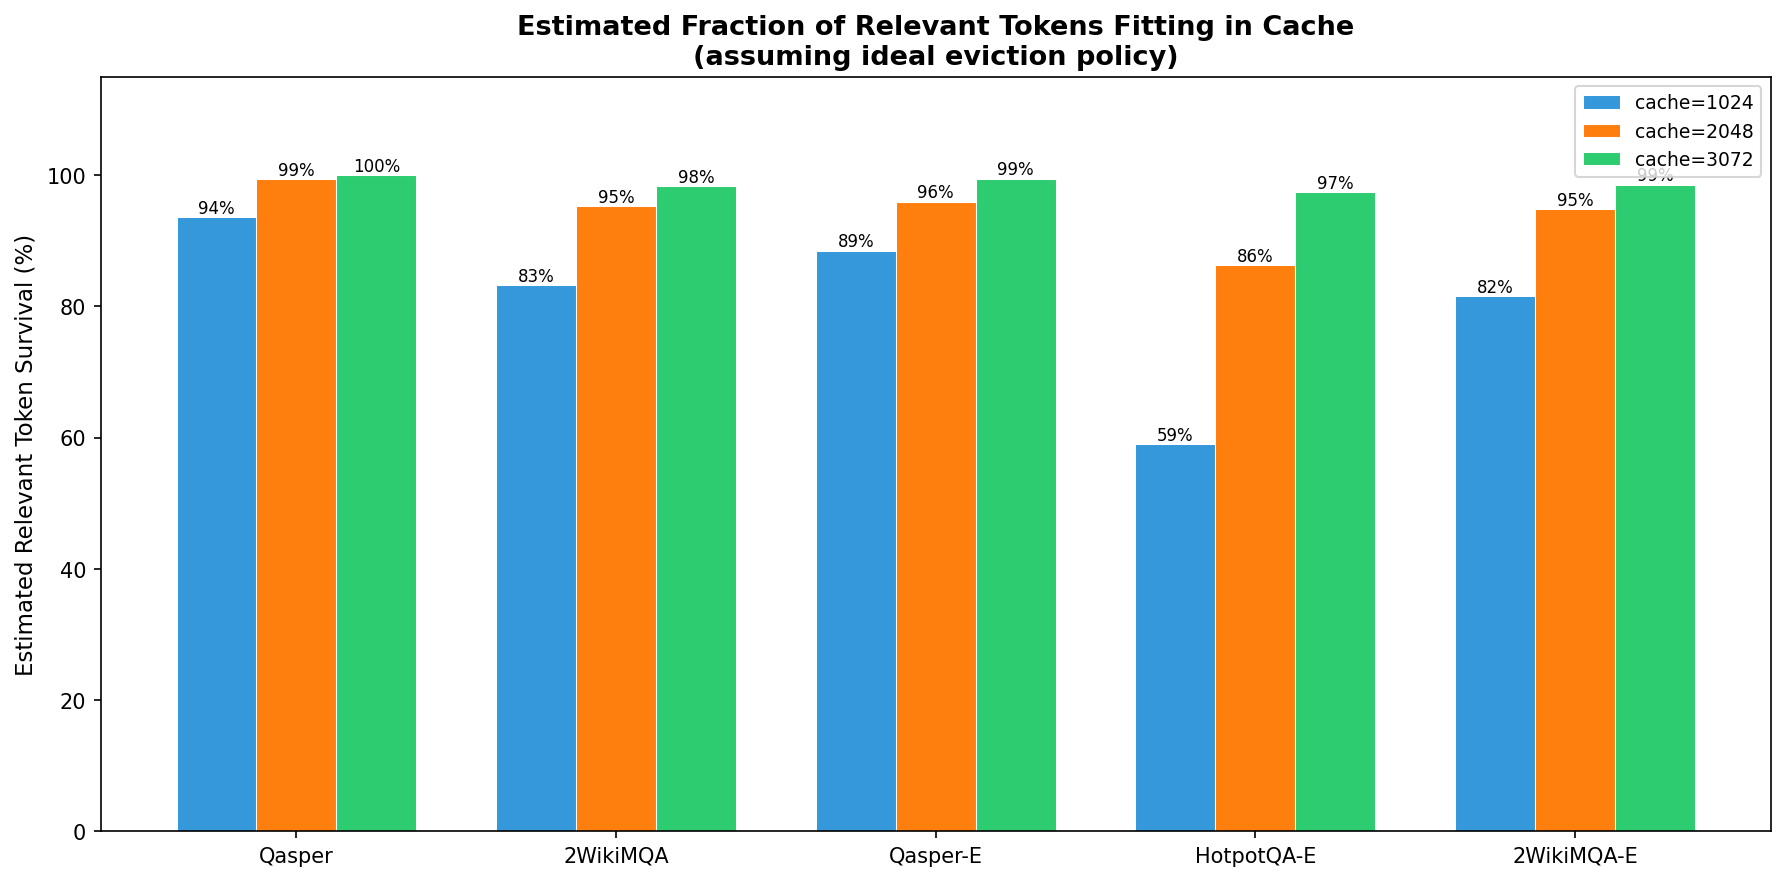
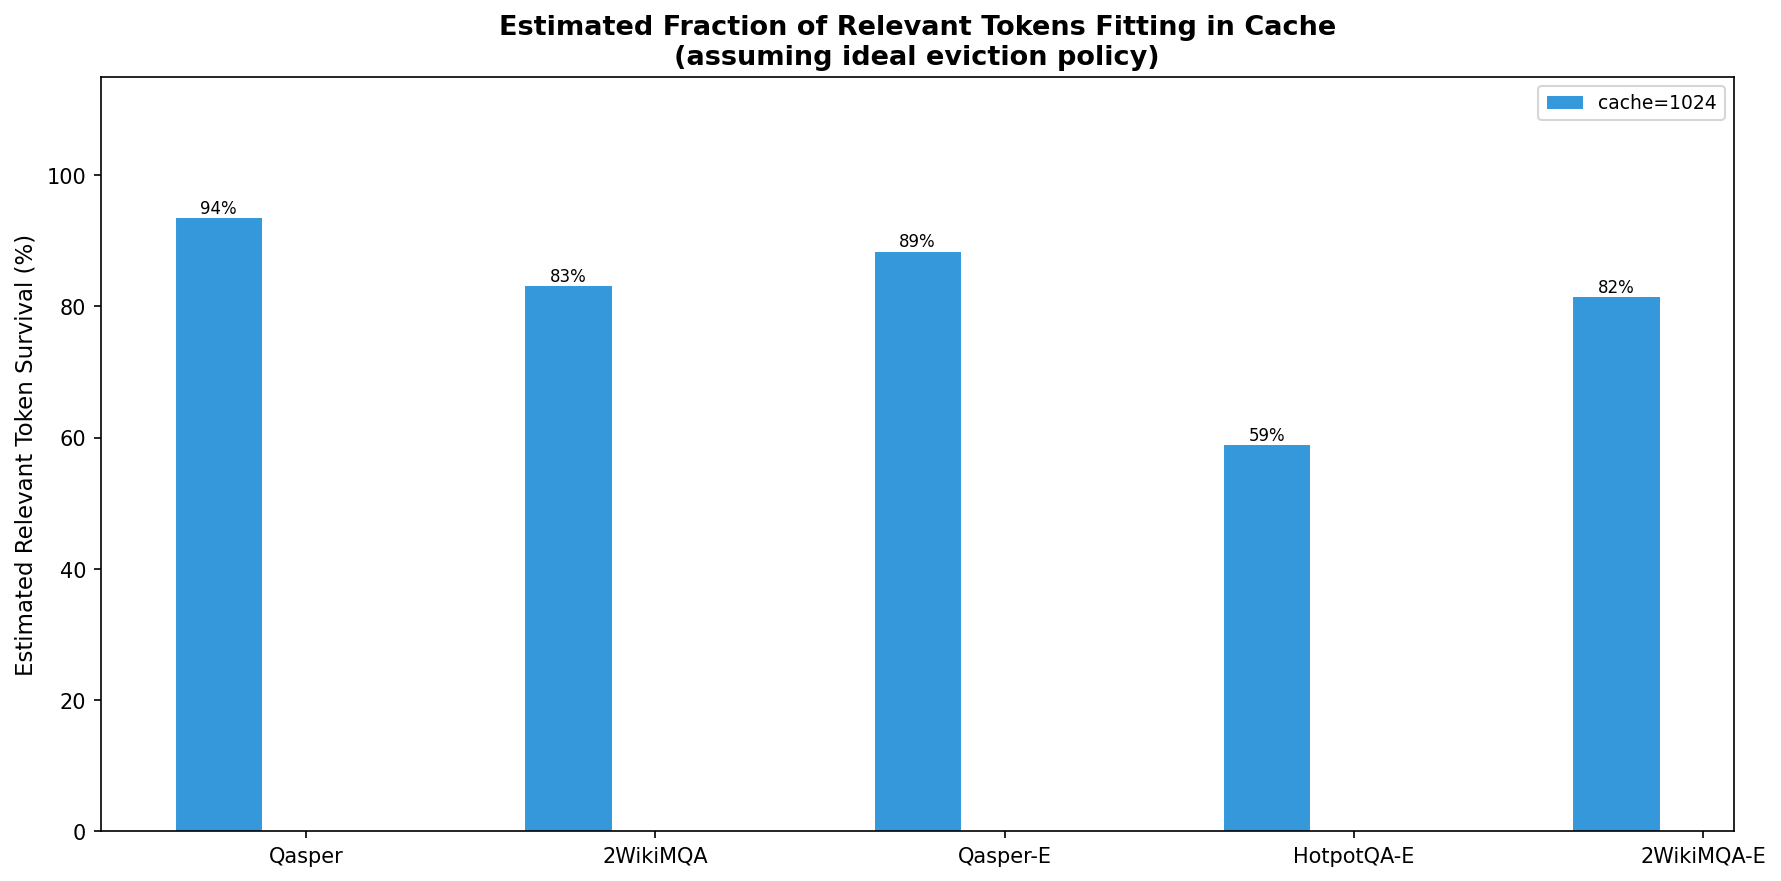
analysis: remove 2048/3072 cache sizes from report 0 plots and text
All eviction analysis now shows cs=1024 only. Updated tables,
plots, and both generate_plots.py and analyse_datasets.py scripts.

diff --git a/analysis/report_0/analyse_datasets.py b/analysis/report_0/analyse_datasets.py
@@ -526,7 +526,7 @@ def plot_eviction_analysis(stats):
     """Visualise how much context is evicted at different cache sizes."""
     fig, axes = plt.subplots(1, 2, figsize=(15, 6))
 
-    cache_sizes = [1024, 2048, 3072]
+    cache_sizes = [1024]
     colors = ["#3498db", "#e74c3c", "#2ecc71", "#f39c12", "#9b59b6"]
 
     # Panel 1: % of tokens evicted per task at each cache size

diff --git a/analysis/report_0/generate_plots.py b/analysis/report_0/generate_plots.py
@@ -42,7 +42,7 @@ TASK_LABELS = {
 }
 TASK_COLORS = ["#3498db", "#e74c3c", "#2ecc71", "#f39c12", "#9b59b6"]
 
-CACHE_SIZES = [1024, 2048, 3072]
+CACHE_SIZES = [1024]
 
 
 # ── Helpers ─────────────────────────────────────────────────────────────────

diff --git a/analysis/report_0/_report.md b/analysis/report_0/_report.md
@@ -207,8 +207,6 @@ At cache_size=1024 with contexts of 4096-6500 tokens, approximately **75-80% of 
 | Cache Size | Approx. Tokens Retained | Approx. % Evicted |
 | ---------- | ----------------------- | ----------------- |
 | 1024       | 1024 of ~5000           | ~80%              |
-| 2048       | 2048 of ~5000           | ~60%              |
-| 3072       | 3072 of ~5000           | ~40%              |
 
 ### 6.2 Relevant Token Analysis
 
@@ -233,13 +231,13 @@ See `relevant_tokens.png`, `relevant_tokens_boxplot.png`, `answer_positions.png`
 
 **Estimated relevant token survival** (assuming an ideal eviction policy that prioritises relevant tokens):
 
-| Task       | cache=1024 | cache=2048 | cache=3072 |
-| ---------- | ---------- | ---------- | ---------- |
-| Qasper     | 97%        | 100%       | 100%       |
-| 2WikiMQA   | 83%        | 95%        | 98%        |
-| Qasper-E   | 96%        | 98%        | 100%       |
-| HotpotQA-E | **60%**    | 87%        | 98%        |
-| 2WikiMQA-E | 82%        | 95%        | 99%        |
+| Task       | cache=1024 |
+| ---------- | ---------- |
+| Qasper     | 97%        |
+| 2WikiMQA   | 83%        |
+| Qasper-E   | 96%        |
+| HotpotQA-E | **60%**    |
+| 2WikiMQA-E | 82%        |
 
 HotpotQA-E is the only task where relevant tokens substantially exceed the cache budget at cs1024. This should make it the most eviction-sensitive task under our initial hypothesis — but as Report 1 shows, the actual results tell a different story.
 
@@ -373,11 +371,11 @@ LoRA fine-tuning with a pre-trained (frozen) NAMM eviction policy active. The LL
 - `prompt_templates.png` — Full prompt templates for each task.
 - `length_distributions.png` — Context length and answer length distributions for eligible samples.
 - `answer_types.png` — Stacked bar chart showing answer type breakdown per task.
-- `eviction_analysis.png` — Token eviction rates at different cache sizes and retention distribution at cs=1024.
+- `eviction_analysis.png` — Token eviction rates and retention distribution at cs=1024.
 - `relevant_tokens.png` — Mean relevant tokens, relevant fraction, and number of distinct relevant regions per task.
 - `relevant_tokens_boxplot.png` — Box plot of relevant token distributions per task, with cache size reference lines.
 - `answer_positions.png` — Distribution of first answer occurrence position within context (0=start, 1=end).
-- `eviction_survival.png` — Estimated fraction of relevant tokens surviving at each cache size, assuming ideal eviction.
+- `eviction_survival.png` — Estimated fraction of relevant tokens surviving at cs=1024, assuming ideal eviction.
 
 ---
 
